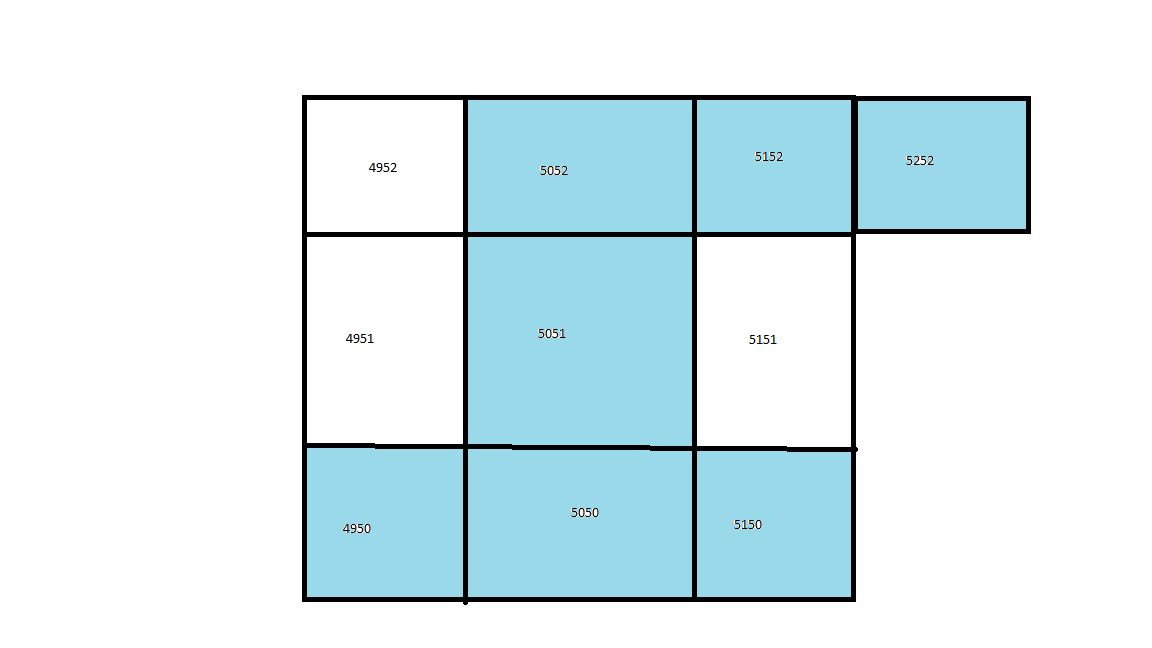
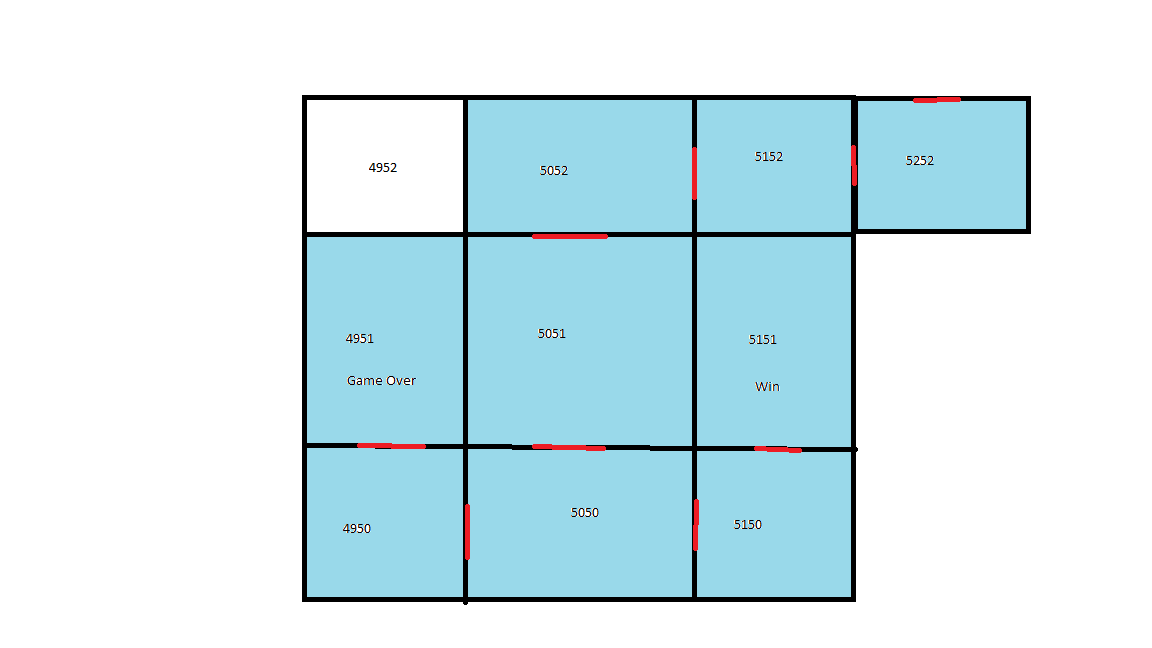
Reworking player input system
May be closing in on crystallizing a current player input system.
Actions are determined in a verb-noun format but there's more
flexibility in identifying commands now.

diff --git a/TAFunc.py b/TAFunc.py
@@ -16,7 +16,7 @@ import logging
 
 # Update location index
 # TODO: Error handling in case line index isn't matched
-def playerMoved(command, room_index):
+def playerMoved(direction, room_index):
 	# Break out currentIndex
 	floorNum 	= room_index[0] + room_index[1]	# Read floor number
 	xCoord 		= room_index[2] + room_index[3]	# Read X coordinate
@@ -28,101 +28,82 @@ def playerMoved(command, room_index):
 	southExit 	= TAData.gameRooms[room_index]['SOUTHEXIT']
 	westExit 	= TAData.gameRooms[room_index]['WESTEXIT']
 	eastExit 	= TAData.gameRooms[room_index]['EASTEXIT']
+	stairsDown	= TAData.gameRooms[room_index]['STAIRSDOWN']
+	stairsUp	= TAData.gameRooms[room_index]['STAIRSUP']
 	
 	# Build new index from currentIndex
-	if (command.noun.lower() == 'west') and (westExit == True):
+	if (direction.lower() == 'west') and (westExit == True):
 		xCoord = str(int(xCoord) - 1)
-	elif (command.noun.lower() == 'west') and (westExit == False):
+	elif (direction.lower() == 'west') and (westExit == False):
 		canMove = False
 		
-	if (command.noun.lower() == 'east') and (eastExit == True):
+	if (direction.lower() == 'east') and (eastExit == True):
 		xCoord = str(int(xCoord) + 1)
-	elif (command.noun.lower() == 'east') and (eastExit == False):
+	elif (direction.lower() == 'east') and (eastExit == False):
 		canMove = False
 		
-	if (command.noun.lower() == 'north') and (northExit == True):
+	if (direction.lower() == 'north') and (northExit == True):
 		yCoord = str(int(yCoord) + 1)
-	elif (command.noun.lower() == 'north') and (northExit == False):
+	elif (direction.lower() == 'north') and (northExit == False):
 		canMove = False
 		
-	if (command.noun.lower() == 'south') and (southExit == True):
+	if (direction.lower() == 'south') and (southExit == True):
 		yCoord = str(int(yCoord) - 1)
-	elif (command.noun.lower() == 'south') and (southExit == False):
+	elif (direction.lower() == 'south') and (southExit == False):
+		canMove = False
+		
+	if ((direction.lower() == 'up') or (direction.lower() == 'upstairs')) and (stairsUp == True):
+		floorNum = str(int(floorNum) + 1)
+	elif ((direction.lower() == 'up') or (direction.lower() == 'upstairs')) and (stairsUp == False):
+		canMove = False
+	
+	if ((direction.lower() == 'down') or (direction.lower() == 'downstairs')) and (stairsDown == True):
+		floorNum = str(int(floorNum) + 1)
+	elif ((direction.lower() == 'down') or (direction.lower() == 'downstairs')) and (stairsDown == False):
 		canMove = False
 	
 	if canMove == True:
+		logging.debug('New room coords: Floor - {0} X - {1} Y - {2}'.format(floorNum, xCoord, yCoord))
 		return floorNum + xCoord + yCoord # Reassemble and return new index
 	else:
 		print('The way is blocked!')
 		return room_index
 
 # Get input from player and parse into a verb-noun pair
-def playerCommand(keyword):
-	moveVerbs 		= ['go','move','walk','step']
-	moveNouns 		= ['west','north','east','south','door','stairs']
-	itemVerbs 		= ['look','examine','fart','lick','take','get','touch','poke','attack','do']
-	itemNouns 		= ['room','water','door','yes','turd']
+def getPlayerCommand(keywords, room_index):
+	command = { 'action':'', 'actionType':'', 'things':[], 'thingType':[], 'roomID':room_index }
+	keywords += TAData.gameMoves
 	
-	validCommand 	= False
-	verbType 		= 'a very bad verb'
-	nounType 		= 'a naughty noun'
+	playerInput = input('\r\n> ')			# Present prompt to player and get input
+	inputWords 	= playerInput.split()		# Separate input into array of words
 	
-	# Create a loop to validate player input
-	# TODO: Allow verb only commands?
-	while validCommand == False:
-		playerInput = input('\r\n> ')			# Present prompt to player and get input
-		inputWords 	= playerInput.split()		# Separate input into array of words
-		
-		#print('Now get verbs from: {0}'.format(inputWords))
-		for word in inputWords:
-			for move in moveVerbs:
-				if word.lower() == move:
-					verb = word
-					verbType = 'movement'
-					inputWords.remove(word)
-					#print('Adding {0} to verb with type {1}'.format(verb, verbType))
-			for action in itemVerbs:
-				if word.lower() == action:
-					verb = word
-					verbType = 'action'
-					inputWords.remove(word)
-					#print('Adding {0} to verb with type {1}'.format(verb, verbType))
-		
-		#print('Now compare words from: {0} To words in: {1}'.format(inputWords,moveNouns))
-		if verbType == 'movement':
-			for word in inputWords:
-				for dir in moveNouns:
-					if word.lower() == dir:
-						noun = word
-						nounType = 'movement'
-						inputWords.remove(word)
-						#print('Adding {0} to noun with type {1}'.format(noun, nounType))
-		elif verbType == 'action':
-			for word in inputWords:
-				if word == keyword:
-					noun = word
-					nounType = 'action'
-					inputWords.remove(word)
-				else:
-					for item in itemNouns:
-						if word.lower() == item:
-							noun = word
-							nounType = 'action'
-							inputWords.remove(word)
-							#print('Adding {0} to noun with type {1}'.format(noun, nounType))
-				
-		if verbType == nounType:
-			validCommand = True
-		else:
-			print('How does one {0}?'.format(playerInput))
+	for iWord in inputWords:
+		iWord = iWord.lower()
+		for aWord in TAData.gameActions:
+			if iWord == aWord:
+				logging.debug('{0} matches {1}. Adding to action.'.format(iWord,aWord))
+				command['action'] = iWord
+				logging.debug('Adding actionType {0} for keyword {1}'.format(TAData.gameActions[iWord], iWord))
+				command['actionType'] = TAData.gameActions[iWord]
+		for kWord in keywords:
+			if iWord == kWord:
+				logging.debug('{0} matches {1}. Adding to things.'.format(iWord,kWord))
+				command['things'].append(iWord)
 	
-	return TACommandClass(verb, verbType, noun, nounType) 	# Return new object containing command decryption
+	logging.debug('Command Action: {0}'.format(command['action']))
+	logging.debug('Command type: {0}'.format(command['actionType']))
+	logging.debug('Command Things: {0}'.format(command['things']))
+	return command					 	# Return new object containing command decryption
 	
 # Return description of room identified by room_index. Supplemented by possible item_index from itemObj
-def getRoomDescription(room_index):
-	roomDesc        = TAData.gameRooms[room_index]['SHORTDESC']
-	itemRoomText    = []
+def getRoomDescription(room_index, detail=False):
+	itemRoomText = []
 	
+	if detail == True:
+		roomDesc = TAData.gameRooms[room_index]['LONGDESC']
+	else:
+		roomDesc = TAData.gameRooms[room_index]['SHORTDESC']
+		
 	if TAData.gameRooms[room_index]['ITEMS']:
 		for itemIndex in TAData.gameRooms[room_index]['ITEMS']:
 			logging.debug('Items in room {0}: {1}'.format(TAData.gameRooms[room_index]['ROOMID'], TAData.gameRooms[room_index]['ITEMS']))
@@ -134,3 +115,60 @@ def getRoomDescription(room_index):
 			roomDesc += description
 	logging.debug('Full description for room {0}: {1}'.format(room_index, roomDesc))
 	return (roomDesc)
+	
+def getKeywords(items,objects):
+	keywords = []
+	for item in items:
+		logging.debug('Getting keywords for item {0}'.format(item))
+		for word in TAData.gameItems[item]['KEYWORDS']:
+			logging.debug('Adding keyword {0} for item {1}'.format(word,item))
+			keywords.append(word)
+	for thing in objects:
+		logging.debug('Getting keywords for object {0}'.format(thing))
+		for word in TAData.gameObjects[thing]['KEYWORDS']:
+			logging.debug('Adding keyword {0} for object {1}'.format(word,thing))
+			keywords.append(word)
+				
+	return keywords
+	
+def getRoomItems(roomID):
+	items = []
+	for item in TAData.gameRooms[roomID]['ITEMS']:
+		logging.debug('Adding - {0} - to items for room {1}'.format(item,roomID))
+		items.append(item)
+	
+	return items
+	
+def getRoomObjects(roomID):
+	objects = []
+	for thing in TAData.gameRooms[roomID]['OBJECTS']:
+		logging.debug('Adding - {0} - to objects for room {1}'.format(thing,roomID))
+		objects.append(thing)
+		
+	return objects
+	
+def uiAction(action, playerObj):
+	if action == 'health':
+		logging.debug('Player health: {0}'.format(playerObj.health))
+		print ('Player health: \r\n\t{0}'.format(playerObj.health))
+		
+	if action == 'state':
+		logging.debug('Player state: {0}'.format(playerObj.state))
+		print ('Player state: \r\n\t{0}'.format(playerObj.state))
+		
+	if action == 'inventory':
+		print ('Digging in your pockets, you find:')
+		logging.debug('Items in inventory: {0}'.format(playerObj.item_inv))
+		for item in playerObj.item_inv:
+			print ('\t{0}'.format(TAData.gameItems[item]['ITEMNAME']))
+			
+def playerLook(command):
+	if not command['things']:
+		logging.debug('No item or object specified. Printing long room description.')
+		print(getRoomDescription(command['roomID'], detail=True))
+	else:
+		pass
+
+def playerAction(command, playerObj):
+	pass
+

diff --git a/TAMain.py b/TAMain.py
@@ -29,47 +29,58 @@ def main():
 	PlayerObj		= TAClass.TAPlayerClass(input('What be thy name? '))
 	
 	# Welcome to our stupid game
-	print('Welcome to the fart zone, {0}! Muahahaha'.format(PlayerObj.name))
+	print('Welcome to the fart zone, {0}! Muahahaha!'.format(PlayerObj.name))
 	
 	# The main loop of our game
-	while (gameOver != True) or (playerVictory != True):
+	while True:
+		if gameOver == True or playerVictory == True:
+			break
 		# Clear some variables that may be modified inside the loop
-		keyword		= None
-		itemID		= None
-		command		= None
+		roomItems		= TAFunc.getRoomItems(roomID)
+		roomObjects		= TAFunc.getRoomObjects(roomID)
+		roomKeywords 	= TAFunc.getKeywords(roomItems,roomObjects)
+		command			= None
 		
 		# If player failed to move to a new grid, don't repeat the description
 		if roomID != oldRoomID:
 			logging.debug('Moved from {0} to {1}'.format(oldRoomID, roomID))
 			print(TAFunc.getRoomDescription(roomID))
+			oldRoomID = roomID
 		else:
 			logging.debug('No movement ocurred. Staying in {0}'.format(oldRoomID))
 
 		# Get input from player and create a temporary object out of it
-		logging.info('Getting player command...')
-		command = TAFunc.playerCommand(keyword)
+		logging.debug('Getting player command...')
+		command = TAFunc.getPlayerCommand(roomKeywords, roomID)
 		
-		# Take action based on data returned in command object
-		# TODO: Rewrite entire command function. Differentiating between different action types seems like a waste of time. Differentiation can be based on nounType 
-		if command.nounType == 'movement':
-			logging.debug('Command type: movement')
-			oldRoomID = roomID
-			roomID = TAFunc.playerMoved(command, roomID)
-		elif command.nounType == 'action':
-			logging.debug('command type: action')
-			if command.noun == keyword:
-				PlayerObj.takeItem(itemID, ItemObj)
-				print('Picked up {0}'.format(ItemObj.getItemName(itemID)))
+		if command['actionType'] == 'move':
+			logging.debug('Command actionType = move')
+			roomID = TAFunc.playerMoved(command['things'][0], roomID)
+		elif command['actionType'] == 'ui':
+			logging.debug('Command actionType = ui')
 			pass
+			TAFunc.uiAction(command['action'], PlayerObj)
+		elif command['actionType'] == 'action':
+			logging.debug('Command actionType = action')
+			pass
+			TAFunc.playerAction(command, PlayerObj)
+		elif command['actionType'] == 'look':
+			logging.debug('Command actionType = look')
+			pass
+			TAFunc.playerLook(command)
+		elif command['actionType'] == 'quit':
+			print('Sick of this disgusting house, you decide that the only viable option is suicide.')
+			gameOver = True
+			logging.debug('GameOver now set to: {0}'.format(gameOver))
 
 	# Self explanatory
 	if gameOver == True:
-		logging.info('{0} has won the game. Quitting.'.format(PlayerObj.name))
+		logging.info('{0} has lost the game. Quitting.'.format(PlayerObj.name))
 		print('Game over. Better luck next time, fatso.')
 		# MORE CODE: Some other ending sequence. Maybe a try again dialog 
 		quit()
 	elif playerVictory == True:
-		logging.info('{0} has lost the game. Quitting.'.format(PlayerObj.name))
+		logging.info('{0} has won the game. Quitting.'.format(PlayerObj.name))
 		print('Looks like you won, smart guy.')
 		# MORE CODE: Some credits or something here?
 		quit()

diff --git a/TAData.py b/TAData.py
@@ -119,7 +119,7 @@ gameRooms = {
         'ROOMID': '005252',
         'ROOMNAME': 'The Grand Entry Hall',
         'SHORTDESC': 'A locked door dominates the North wall. You think you hear a fart from the West.',
-        'LONGDESC': '',
+        'LONGDESC': 'This bare room holds little of interest. You can hear faint sounds from the portal to the North, but can\'t quite make out their source. That was definitely a fart from the West.',
         'NORTHEXIT': False,
         'SOUTHEXIT': False,
         'WESTEXIT': True,
@@ -128,6 +128,36 @@ gameRooms = {
         'STAIRSDOWN': False,
         'ITEMS': ['003'],
         'OBJECTS': ['AA']
+    },
+    
+    '005151':{
+        'ROOMID': '005151',
+        'ROOMNAME': 'Winners Circle',
+        'SHORTDESC': 'Googratutions you habe win de gaem.',
+        'LONGDESC': '',
+        'NORTHEXIT': False,
+        'SOUTHEXIT': True,
+        'WESTEXIT': False,
+        'EASTEXIT': False,
+        'STAIRSUP': False,
+        'STAIRSDOWN': False,
+        'ITEMS': [],
+        'OBJECTS': []
+    },
+    
+    '004951':{
+        'ROOMID': '004951',
+        'ROOMNAME': 'The Sewer',
+        'SHORTDESC': 'Eww, you got the poo on you!',
+        'LONGDESC': '',
+        'NORTHEXIT': False,
+        'SOUTHEXIT': False,
+        'WESTEXIT': True,
+        'EASTEXIT': False,
+        'STAIRSUP': False,
+        'STAIRSDOWN': False,
+        'ITEMS': [],
+        'OBJECTS': []
     }
 }
 
@@ -269,3 +299,43 @@ gameObjects = {
         'KEYWORDS': ['toilet','commode','wc','john','crapper']
     }
 }
+
+# Action verbs
+# Attribute Template
+    
+gameActions={
+    'move':'move',
+    'go':'move',
+    'walk':'move',
+    'inventory':'ui',
+    'health':'ui',
+    'state':'ui',
+    'look':'look',
+    'examine':'look',
+    'fart':'action',
+    'lick':'action',
+    'take':'action',
+    'get':'action',
+    'touch':'action',
+    'poke':'action',
+    'attack':'action',
+    'use':'action',
+    'on':'modifier',
+    'in':'modifier',
+    'quit':'quit',
+    'exit':'quit'
+}
+
+# Movement words
+# Attribute Template
+
+gameMoves=[
+    'north',
+    'south',
+    'east',
+    'west',
+    'up',
+    'upstairs',
+    'down',
+    'downstairs'
+]
